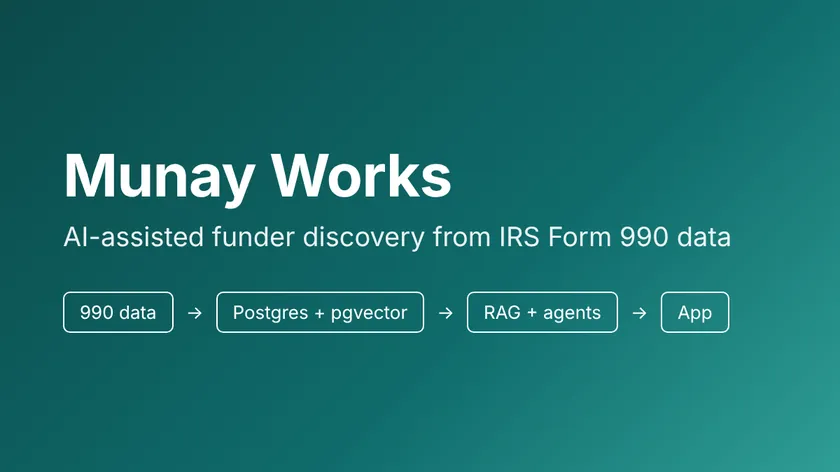
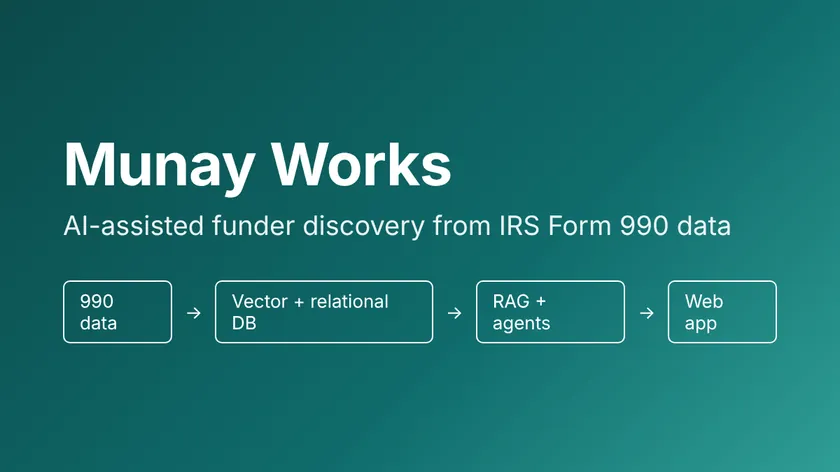
Generalize Munay Works tech details; remove archived prototype page
- Munay Works page, diagram, thumbnail and home-page chips use concept-level terms
  (RAG, vector database, relational database, multi-agent, two-layer schema, materialized views)
  and no product/brand names
- Health score left unpublished
- Delete _archive/04_nonprofit-grant-writer-ai-assistant (named the early prototype's tools and data API)
- Re-rendered docs/

Claude-Session: https://claude.ai/code/session_01UoYXsSG7pYQstcc7THWDAe

Changed region(s): [[0.0619, 0.2966, 0.8667, 0.5339], [0.0619, 0.5932, 0.9286, 0.7415]]

diff --git a/docs/projects/munay-works/index.html b/docs/projects/munay-works/index.html
@@ -8,7 +8,7 @@
 
 <meta name="author" content="Jorge Montoya">
 <meta name="dcterms.date" content="2026-01-01">
-<meta name="description" content="RAG and multi-agent platform on a PostgreSQL/pgvector data foundation that helps nonprofits find funders from IRS Form 990 data.">
+<meta name="description" content="RAG and multi-agent platform on a relational and vector database foundation that helps nonprofits find funders from IRS Form 990 data.">
 
 <title>Munay Works: AI Platform for Nonprofit Funding – Jorge Montoya</title>
 <style>
@@ -82,15 +82,15 @@ ul.task-list li input[type="checkbox"] {
 
 <link rel="stylesheet" href="../../styles.css">
 <meta property="og:title" content="Munay Works: AI Platform for Nonprofit Funding – Jorge Montoya">
-<meta property="og:description" content="RAG and multi-agent platform on a PostgreSQL/pgvector data foundation that helps nonprofits find funders from IRS Form 990 data.">
+<meta property="og:description" content="RAG and multi-agent platform on a relational and vector database foundation that helps nonprofits find funders from IRS Form 990 data.">
 <meta property="og:image" content="https://jorgems21.github.io/mysite/projects/munay-works/thumbnail.webp">
 <meta property="og:site_name" content="Jorge Montoya">
-<meta property="og:image:alt" content="Munay Works title card showing the pipeline from 990 data to Postgres and pgvector, RAG and agents, and the app">
+<meta property="og:image:alt" content="Munay Works title card showing the pipeline from 990 data to a vector and relational database, RAG and agents, and a web app">
 <meta name="twitter:title" content="Munay Works: AI Platform for Nonprofit Funding – Jorge Montoya">
-<meta name="twitter:description" content="RAG and multi-agent platform on a PostgreSQL/pgvector data foundation that helps nonprofits find funders from IRS Form 990 data.">
+<meta name="twitter:description" content="RAG and multi-agent platform on a relational and vector database foundation that helps nonprofits find funders from IRS Form 990 data.">
 <meta name="twitter:image" content="https://jorgems21.github.io/mysite/projects/munay-works/thumbnail.webp">
 <meta name="twitter:card" content="summary_large_image">
-<meta name="twitter:image:alt" content="Munay Works title card showing the pipeline from 990 data to Postgres and pgvector, RAG and agents, and the app">
+<meta name="twitter:image:alt" content="Munay Works title card showing the pipeline from 990 data to a vector and relational database, RAG and agents, and a web app">
 </head>
 
 <body class="nav-fixed quarto-light"><a id="quarto-skip-link" class="visually-hidden-focusable" href="#quarto-document-content">Skip to main content</a>
@@ -145,7 +145,7 @@ ul.task-list li input[type="checkbox"] {
             <p class="subtitle lead">An independent AI product build: RAG and multi-agent grant insights over IRS Form 990 data</p>
                   <div>
         <div class="description">
-          RAG and multi-agent platform on a PostgreSQL/pgvector data foundation that helps nonprofits find funders from IRS Form 990 data.
+          RAG and multi-agent platform on a relational and vector database foundation that helps nonprofits find funders from IRS Form 990 data.
         </div>
       </div>
                           <div class="quarto-categories">
@@ -206,7 +206,7 @@ ul.task-list li input[type="checkbox"] {
 <p><strong>TL;DR</strong></p>
 <ul>
 <li><strong>Problem:</strong> Nonprofits need to find the right funders and turn funder data into grant insights.</li>
-<li><strong>Approach:</strong> A data pipeline over IRS Form 990 filings feeds a PostgreSQL/pgvector foundation, with a RAG and multi-agent AI layer behind a React app.</li>
+<li><strong>Approach:</strong> A data pipeline over IRS Form 990 filings feeds a relational and vector database, with a retrieval-augmented generation (RAG) and multi-agent AI layer behind a web app.</li>
 <li><strong>Result:</strong> A working platform in pilot with nonprofit organizations, where user feedback drives the roadmap. </li>
 </ul>
 
@@ -216,21 +216,20 @@ ul.task-list li input[type="checkbox"] {
 </section>
 <section id="architecture" class="level2">
 <h2 class="anchored" data-anchor-id="architecture">Architecture</h2>
-<p><img src="architecture.svg" class="architecture img-fluid" alt="Vertical flow diagram: IRS Form 990 filings and IRS TEOS monthly files, ETL / ingestion, PostgreSQL / Supabase with pgvector, RAG pipeline and multi-agent layer, FastAPI, React app."></p>
-<p><strong>Stack:</strong> React · Python / FastAPI · LangChain · RAG pipeline · multi-agent architecture · FAISS · pgvector · PostgreSQL / Supabase</p>
+<p><img src="architecture.svg" class="architecture img-fluid" alt="Vertical flow diagram: IRS Form 990 filings and IRS TEOS monthly files, ETL / ingestion, a relational and vector database with source and analytics layers, a RAG pipeline with a multi-agent layer, an API service, and a web app."></p>
+<p><strong>Stack:</strong> web front end · Python API service · RAG pipeline · multi-agent architecture · vector database · relational database</p>
 </section>
 <section id="data-pipeline" class="level2">
 <h2 class="anchored" data-anchor-id="data-pipeline">Data Pipeline</h2>
 <ul>
-<li><strong>Sources:</strong> IRS Form 990 filings, including the IRS TEOS monthly files, ingested into a 990 database I built.</li>
-<li><strong>Two-layer PostgreSQL schema:</strong> source tables are kept separate from analytics tables, so raw filings stay untouched and the analytics layer can be rebuilt.</li>
+<li><strong>Sources:</strong> IRS Form 990 filings, including the IRS TEOS monthly files, ingested through an ETL pipeline into a 990 database I built.</li>
+<li><strong>Two-layer schema:</strong> source tables are kept separate from analytics tables, so raw filings stay untouched and the analytics layer can be rebuilt.</li>
 <li><strong>Materialized views</strong> provide peer benchmarks and foundation profiles.</li>
-<li><strong>Organization health score:</strong> a 100-point score computed for each organization. </li>
 </ul>
 </section>
 <section id="ai-layer-and-how-outputs-are-evaluated" class="level2">
 <h2 class="anchored" data-anchor-id="ai-layer-and-how-outputs-are-evaluated">AI Layer and How Outputs Are Evaluated</h2>
-<p>The AI layer is a RAG pipeline with a multi-agent architecture. LangChain orchestrates it, and retrieval uses FAISS and pgvector over the data above, so answers are grounded in actual filings and not generated from the model alone.</p>
+<p>The AI layer is a RAG pipeline with a multi-agent architecture. Retrieval runs against a vector database alongside the relational data, so answers are grounded in actual filings and not generated from the model alone.</p>
 
 </section>
 <section id="what-pilots-taught-me" class="level2">
@@ -238,7 +237,7 @@ ul.task-list li input[type="checkbox"] {
 <p>The platform is in a pilot with nonprofit organizations, and user feedback from the pilot drives the roadmap. </p>
 <section id="lessons-from-the-early-prototype" class="level3">
 <h3 class="anchored" data-anchor-id="lessons-from-the-early-prototype">Lessons From the Early Prototype</h3>
-<p>The first version, built in late 2025, was a Streamlit app using LangChain and FAISS. It worked with nonprofit data from IRS Form 990 filings, and offered two modes: an advisory mode for grant-writing strategy, and a document mode where a user uploads an RFP, retrieves from it, and drafts responses. What carried forward:</p>
+<p>The first version, built in late 2025, was a RAG prototype backed by a vector store, with two modes: an advisory mode for grant-writing strategy, and a document mode where a user uploads an RFP, retrieves from it, and drafts responses. What carried forward:</p>
 <ul>
 <li>Clearly separating the advisory and document modes improved the user experience.</li>
 <li>RAG relevance depends on high-quality chunking and metadata.</li>

diff --git a/docs/index.html b/docs/index.html
@@ -184,7 +184,7 @@ miraflores97@gmail.com
 <section id="munay-works-ai-for-nonprofit-funding" class="level3 work-card">
 <h3 class="anchored" data-anchor-id="munay-works-ai-for-nonprofit-funding">Munay Works: AI for Nonprofit Funding</h3>
 <p>An independent AI product: a RAG and multi-agent platform that helps nonprofits find funders from IRS Form 990 data.</p>
-<p><span class="chip">LLM</span> <span class="chip">RAG</span> <span class="chip">Multi-Agent</span> <span class="chip">PostgreSQL / pgvector</span></p>
+<p><span class="chip">LLM</span> <span class="chip">RAG</span> <span class="chip">Multi-Agent</span> <span class="chip">Vector Database</span></p>
 <p><a href="./projects/munay-works/index.html" class="stretched-link">Read case study</a></p>
 </section>
 <section id="cancer-mortality-analysis" class="level3 work-card">
@@ -213,7 +213,7 @@ miraflores97@gmail.com
 <p><strong>Domain</strong> <span class="chip">Healthcare (RWE, HEOR, EHR)</span> <span class="chip">Chargemaster</span> <span class="chip">Finance</span> <span class="chip">Nonprofit (IRS 990)</span></p>
 <p><strong>Languages &amp; Data</strong> <span class="chip">Python</span> <span class="chip">R</span> <span class="chip">SQL</span> <span class="chip">PySpark</span> <span class="chip">Databricks</span> <span class="chip">Teradata</span></p>
 <p><strong>Analytics &amp; Apps</strong> <span class="chip">Statistical Modeling</span> <span class="chip">Machine Learning</span> <span class="chip">Tableau</span> <span class="chip">R Shiny</span> <span class="chip">Streamlit</span></p>
-<p><strong>AI</strong> <span class="chip">LangChain</span> <span class="chip">RAG</span> <span class="chip">FAISS</span> <span class="chip">pgvector</span> <span class="chip">FastAPI</span></p>
+<p><strong>AI</strong> <span class="chip">LLM Applications</span> <span class="chip">RAG</span> <span class="chip">Multi-Agent Systems</span> <span class="chip">Vector Databases</span> <span class="chip">Prompt Engineering</span> <span class="chip">API Development</span></p>
 </div>
 </section>
 <section id="about" class="level2">

diff --git a/docs/projects.html b/docs/projects.html
@@ -226,11 +226,11 @@ ul.task-list li input[type="checkbox"] {
     </div>
 </div>
 <div class="list grid quarto-listing-cols-3">
-<div class="g-col-1" data-index="0" data-categories="QUklMjAlMkYlMjBMTE0=" data-listing-date-sort="1767225600000" data-listing-file-modified-sort="1793991518011" data-listing-date-modified-sort="NaN" data-listing-reading-time-sort="3" data-listing-word-count-sort="536">
+<div class="g-col-1" data-index="0" data-categories="QUklMjAlMkYlMjBMTE0=" data-listing-date-sort="1767225600000" data-listing-file-modified-sort="1793992931528" data-listing-date-modified-sort="NaN" data-listing-reading-time-sort="3" data-listing-word-count-sort="505">
 <a href="./projects/munay-works/index.html" class="quarto-grid-link no-external-icon">
 <div class="quarto-grid-item card h-100 card-left">
 <p class="card-img-top">
-<img loading="lazy" src="./projects/munay-works/thumbnail.webp" class="thumbnail-image card-img" style="height: 150px;" alt="Munay Works title card showing the pipeline from 990 data to Postgres and pgvector, RAG and agents, and the app">
+<img loading="lazy" src="./projects/munay-works/thumbnail.webp" class="thumbnail-image card-img" style="height: 150px;" alt="Munay Works title card showing the pipeline from 990 data to a vector and relational database, RAG and agents, and a web app">
 </p>
 <div class="card-body post-contents">
 <h5 class="no-anchor card-title listing-title">
@@ -242,7 +242,7 @@ Munay Works: AI Platform for Nonprofit Funding
 
 </div>
 <div class="card-text listing-description">
-<p>RAG and multi-agent platform on a PostgreSQL/pgvector data foundation that helps nonprofits find funders from IRS Form 990 data.</p>
+<p>RAG and multi-agent platform on a relational and vector database foundation that helps nonprofits find funders from IRS Form 990 data.</p>
 </div>
 <div class="card-attribution card-text-small end">
 <div class="listing-date">
